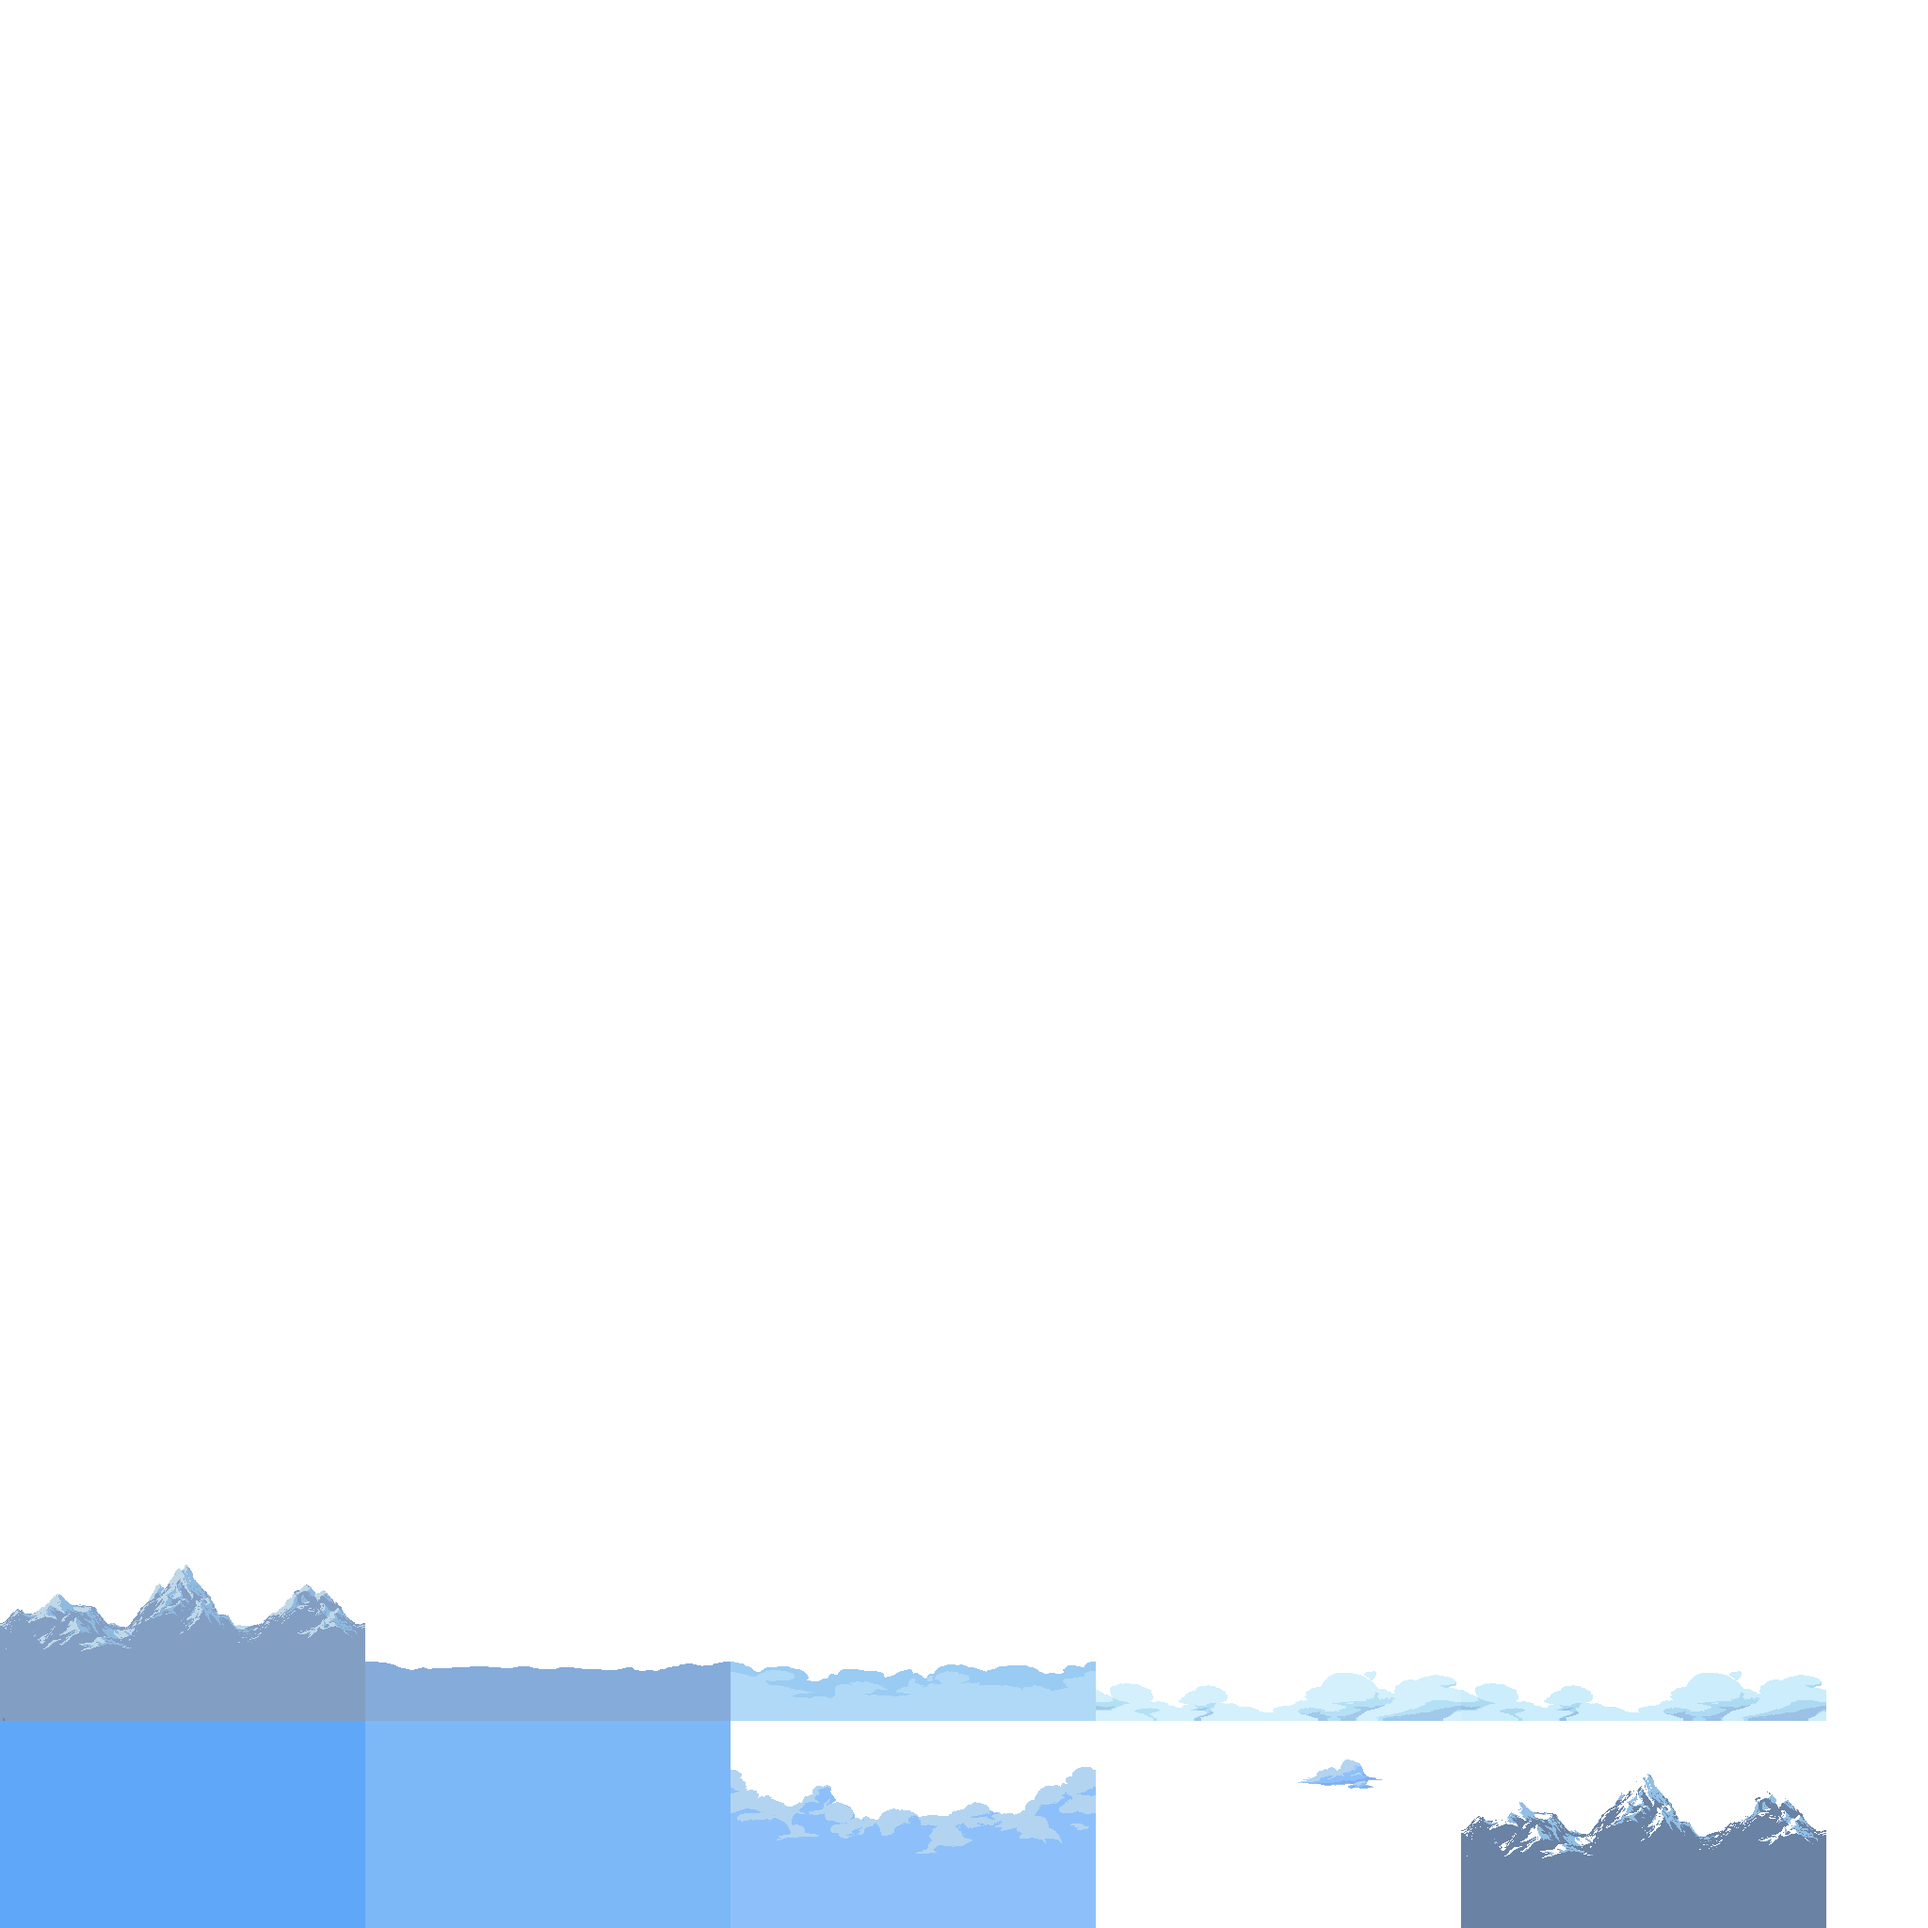
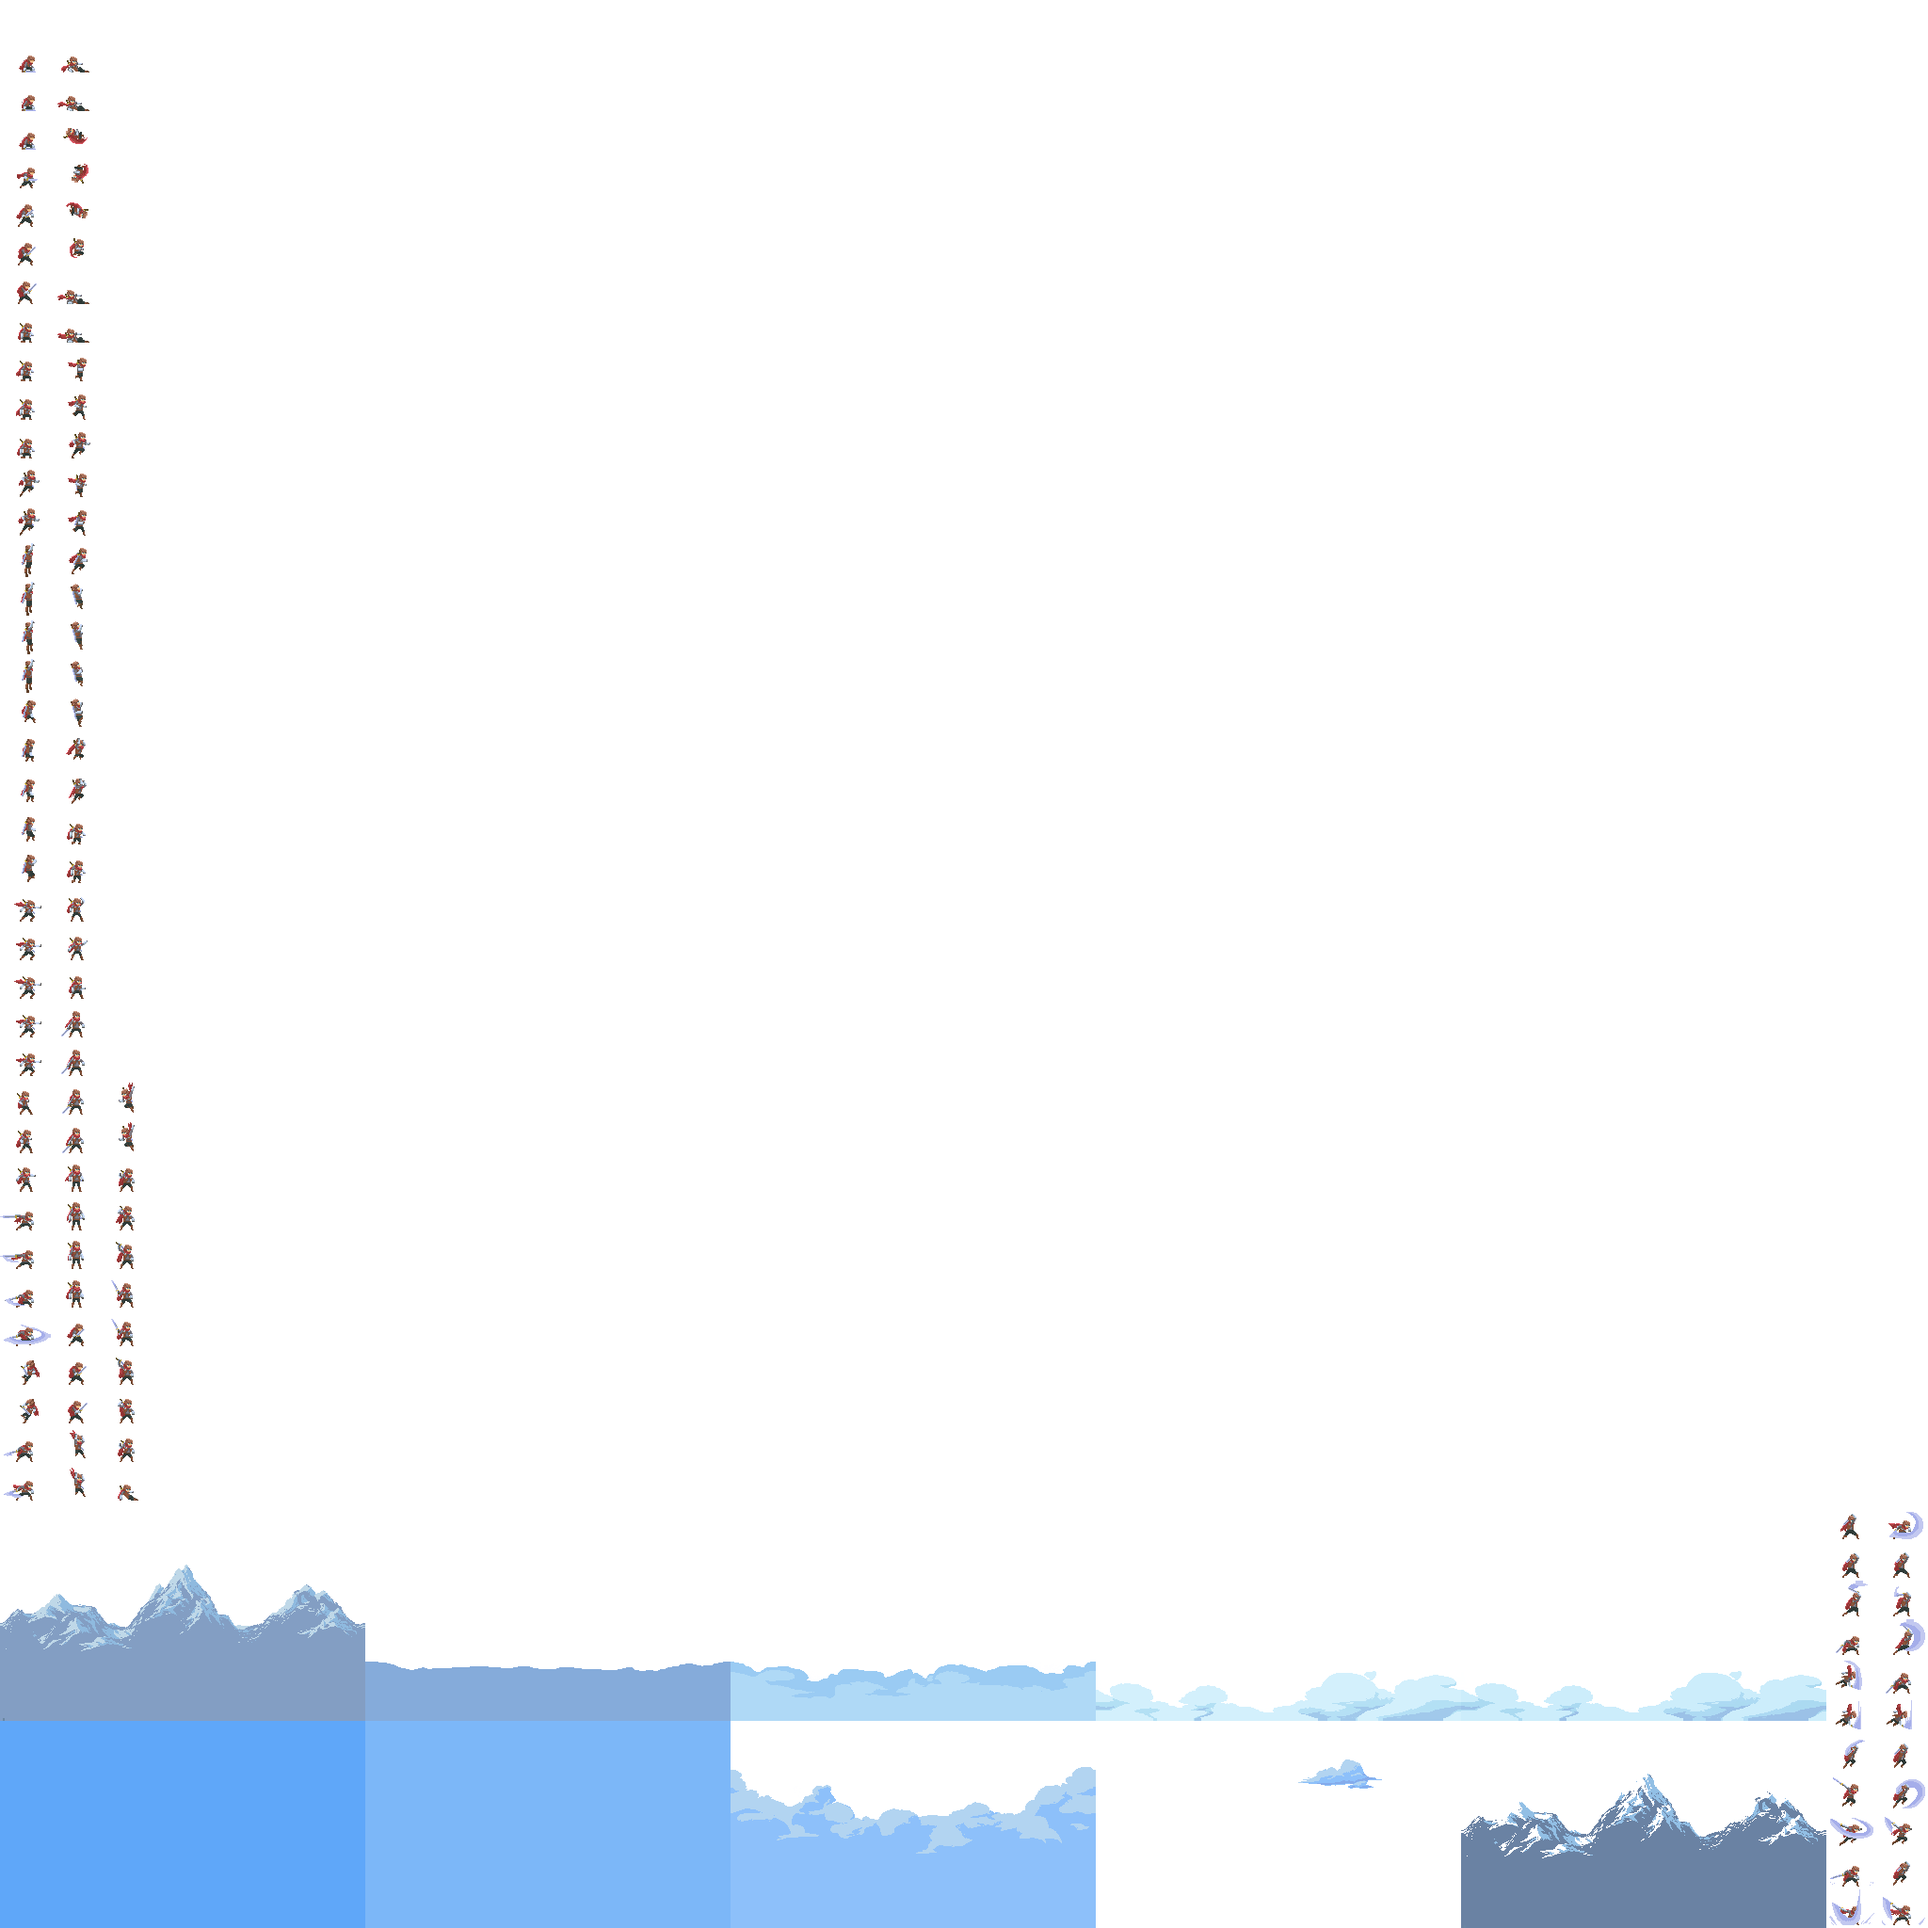
add player sprites

diff --git a/src/atlas.py b/src/atlas.py
@@ -17,6 +17,115 @@ RECTS = [
     778  , 222  , 384  , 216  ,  # 7
     1166 , 222  , 384  , 216  ,  # 8
     1554 , 222  , 384  , 216  ,  # 9
+    1942 , 2    , 50   , 37   ,  # 10
+    1996 , 2    , 50   , 37   ,  # 11
+    1942 , 43   , 50   , 37   ,  # 12
+    1996 , 43   , 50   , 37   ,  # 13
+    1942 , 84   , 50   , 37   ,  # 14
+    1996 , 84   , 50   , 37   ,  # 15
+    1942 , 125  , 50   , 37   ,  # 16
+    1996 , 125  , 50   , 37   ,  # 17
+    1942 , 166  , 50   , 37   ,  # 18
+    1996 , 166  , 50   , 37   ,  # 19
+    1942 , 207  , 50   , 37   ,  # 20
+    1996 , 207  , 50   , 37   ,  # 21
+    1942 , 248  , 50   , 37   ,  # 22
+    1996 , 248  , 50   , 37   ,  # 23
+    1942 , 289  , 50   , 37   ,  # 24
+    1996 , 289  , 50   , 37   ,  # 25
+    1942 , 330  , 50   , 37   ,  # 26
+    1996 , 330  , 50   , 37   ,  # 27
+    1942 , 371  , 50   , 37   ,  # 28
+    1996 , 371  , 50   , 37   ,  # 29
+    1942 , 412  , 50   , 37   ,  # 30
+    1996 , 412  , 50   , 37   ,  # 31
+    2    , 453  , 50   , 37   ,  # 32
+    2    , 494  , 50   , 37   ,  # 33
+    2    , 535  , 50   , 37   ,  # 34
+    2    , 576  , 50   , 37   ,  # 35
+    2    , 617  , 50   , 37   ,  # 36
+    2    , 658  , 50   , 37   ,  # 37
+    2    , 699  , 50   , 37   ,  # 38
+    2    , 740  , 50   , 37   ,  # 39
+    2    , 781  , 50   , 37   ,  # 40
+    2    , 822  , 50   , 37   ,  # 41
+    2    , 863  , 50   , 37   ,  # 42
+    2    , 904  , 50   , 37   ,  # 43
+    2    , 945  , 50   , 37   ,  # 44
+    2    , 986  , 50   , 37   ,  # 45
+    2    , 1027 , 50   , 37   ,  # 46
+    2    , 1068 , 50   , 37   ,  # 47
+    2    , 1109 , 50   , 37   ,  # 48
+    2    , 1150 , 50   , 37   ,  # 49
+    2    , 1191 , 50   , 37   ,  # 50
+    2    , 1232 , 50   , 37   ,  # 51
+    2    , 1273 , 50   , 37   ,  # 52
+    2    , 1314 , 50   , 37   ,  # 53
+    2    , 1355 , 50   , 37   ,  # 54
+    2    , 1396 , 50   , 37   ,  # 55
+    2    , 1437 , 50   , 37   ,  # 56
+    2    , 1478 , 50   , 37   ,  # 57
+    2    , 1519 , 50   , 37   ,  # 58
+    2    , 1560 , 50   , 37   ,  # 59
+    2    , 1601 , 50   , 37   ,  # 60
+    2    , 1642 , 50   , 37   ,  # 61
+    2    , 1683 , 50   , 37   ,  # 62
+    2    , 1724 , 50   , 37   ,  # 63
+    2    , 1765 , 50   , 37   ,  # 64
+    2    , 1806 , 50   , 37   ,  # 65
+    2    , 1847 , 50   , 37   ,  # 66
+    2    , 1888 , 50   , 37   ,  # 67
+    2    , 1929 , 50   , 37   ,  # 68
+    2    , 1970 , 50   , 37   ,  # 69
+    56   , 453  , 50   , 37   ,  # 70
+    56   , 494  , 50   , 37   ,  # 71
+    56   , 535  , 50   , 37   ,  # 72
+    56   , 576  , 50   , 37   ,  # 73
+    56   , 617  , 50   , 37   ,  # 74
+    56   , 658  , 50   , 37   ,  # 75
+    56   , 699  , 50   , 37   ,  # 76
+    56   , 740  , 50   , 37   ,  # 77
+    56   , 781  , 50   , 37   ,  # 78
+    56   , 822  , 50   , 37   ,  # 79
+    56   , 863  , 50   , 37   ,  # 80
+    56   , 904  , 50   , 37   ,  # 81
+    56   , 945  , 50   , 37   ,  # 82
+    56   , 986  , 50   , 37   ,  # 83
+    56   , 1027 , 50   , 37   ,  # 84
+    56   , 1068 , 50   , 37   ,  # 85
+    56   , 1109 , 50   , 37   ,  # 86
+    56   , 1150 , 50   , 37   ,  # 87
+    56   , 1191 , 50   , 37   ,  # 88
+    56   , 1232 , 50   , 37   ,  # 89
+    56   , 1273 , 50   , 37   ,  # 90
+    56   , 1314 , 50   , 37   ,  # 91
+    56   , 1355 , 50   , 37   ,  # 92
+    56   , 1396 , 50   , 37   ,  # 93
+    56   , 1437 , 50   , 37   ,  # 94
+    56   , 1478 , 50   , 37   ,  # 95
+    56   , 1519 , 50   , 37   ,  # 96
+    56   , 1560 , 50   , 37   ,  # 97
+    56   , 1601 , 50   , 37   ,  # 98
+    56   , 1642 , 50   , 37   ,  # 99
+    56   , 1683 , 50   , 37   ,  # 100
+    56   , 1724 , 50   , 37   ,  # 101
+    56   , 1765 , 50   , 37   ,  # 102
+    56   , 1806 , 50   , 37   ,  # 103
+    56   , 1847 , 50   , 37   ,  # 104
+    56   , 1888 , 50   , 37   ,  # 105
+    56   , 1929 , 50   , 37   ,  # 106
+    56   , 1970 , 50   , 37   ,  # 107
+    110  , 453  , 50   , 37   ,  # 108
+    110  , 494  , 50   , 37   ,  # 109
+    110  , 535  , 50   , 37   ,  # 110
+    110  , 576  , 50   , 37   ,  # 111
+    110  , 617  , 50   , 37   ,  # 112
+    110  , 658  , 50   , 37   ,  # 113
+    110  , 699  , 50   , 37   ,  # 114
+    110  , 740  , 50   , 37   ,  # 115
+    110  , 781  , 50   , 37   ,  # 116
+    110  , 822  , 50   , 37   ,  # 117
+    110  , 863  , 50   , 37   ,  # 118
 ]
 """
 Coordinates of the rectangles of each image in the atlas.
@@ -36,3 +145,112 @@ class Sprite(enum.Enum):
     BG_LAYER_5_LOW_CLOUDS = 7
     BG_LAYER_6_LIGHT_CLOUDS = 8
     BG_LAYER_6_LIGHT_CLOUDS_LIGHTENED = 9
+    ADVENTURER_AIR_ATTACK_3_END_00 = 10
+    ADVENTURER_AIR_ATTACK_3_END_01 = 11
+    ADVENTURER_AIR_ATTACK_3_END_02 = 12
+    ADVENTURER_AIR_ATTACK1_00 = 13
+    ADVENTURER_AIR_ATTACK1_01 = 14
+    ADVENTURER_AIR_ATTACK1_02 = 15
+    ADVENTURER_AIR_ATTACK1_03 = 16
+    ADVENTURER_AIR_ATTACK2_00 = 17
+    ADVENTURER_AIR_ATTACK2_01 = 18
+    ADVENTURER_AIR_ATTACK2_02 = 19
+    ADVENTURER_AIR_ATTACK3_LOOP_00 = 20
+    ADVENTURER_AIR_ATTACK3_LOOP_01 = 21
+    ADVENTURER_AIR_ATTACK3_RDY_00 = 22
+    ADVENTURER_ATTACK1_00 = 23
+    ADVENTURER_ATTACK1_01 = 24
+    ADVENTURER_ATTACK1_02 = 25
+    ADVENTURER_ATTACK1_03 = 26
+    ADVENTURER_ATTACK1_04 = 27
+    ADVENTURER_ATTACK2_00 = 28
+    ADVENTURER_ATTACK2_01 = 29
+    ADVENTURER_ATTACK2_02 = 30
+    ADVENTURER_ATTACK2_03 = 31
+    ADVENTURER_ATTACK2_04 = 32
+    ADVENTURER_ATTACK2_05 = 33
+    ADVENTURER_ATTACK3_00 = 34
+    ADVENTURER_ATTACK3_01 = 35
+    ADVENTURER_ATTACK3_02 = 36
+    ADVENTURER_ATTACK3_03 = 37
+    ADVENTURER_ATTACK3_04 = 38
+    ADVENTURER_ATTACK3_05 = 39
+    ADVENTURER_CAST_00 = 40
+    ADVENTURER_CAST_01 = 41
+    ADVENTURER_CAST_02 = 42
+    ADVENTURER_CAST_03 = 43
+    ADVENTURER_CAST_LOOP_00 = 44
+    ADVENTURER_CAST_LOOP_01 = 45
+    ADVENTURER_CAST_LOOP_02 = 46
+    ADVENTURER_CAST_LOOP_03 = 47
+    ADVENTURER_CRNR_CLMB_00 = 48
+    ADVENTURER_CRNR_CLMB_01 = 49
+    ADVENTURER_CRNR_CLMB_02 = 50
+    ADVENTURER_CRNR_CLMB_03 = 51
+    ADVENTURER_CRNR_CLMB_04 = 52
+    ADVENTURER_CRNR_GRB_00 = 53
+    ADVENTURER_CRNR_GRB_01 = 54
+    ADVENTURER_CRNR_GRB_02 = 55
+    ADVENTURER_CRNR_GRB_03 = 56
+    ADVENTURER_CRNR_JMP_00 = 57
+    ADVENTURER_CRNR_JMP_01 = 58
+    ADVENTURER_CROUCH_00 = 59
+    ADVENTURER_CROUCH_01 = 60
+    ADVENTURER_CROUCH_02 = 61
+    ADVENTURER_CROUCH_03 = 62
+    ADVENTURER_DIE_00 = 63
+    ADVENTURER_DIE_01 = 64
+    ADVENTURER_DIE_02 = 65
+    ADVENTURER_DIE_03 = 66
+    ADVENTURER_DIE_04 = 67
+    ADVENTURER_DIE_05 = 68
+    ADVENTURER_DIE_06 = 69
+    ADVENTURER_FALL_00 = 70
+    ADVENTURER_FALL_01 = 71
+    ADVENTURER_HURT_00 = 72
+    ADVENTURER_HURT_01 = 73
+    ADVENTURER_HURT_02 = 74
+    ADVENTURER_IDLE_00 = 75
+    ADVENTURER_IDLE_01 = 76
+    ADVENTURER_IDLE_02 = 77
+    ADVENTURER_IDLE_03 = 78
+    ADVENTURER_IDLE_2_00 = 79
+    ADVENTURER_IDLE_2_01 = 80
+    ADVENTURER_IDLE_2_02 = 81
+    ADVENTURER_IDLE_2_03 = 82
+    ADVENTURER_ITEMS_00 = 83
+    ADVENTURER_ITEMS_01 = 84
+    ADVENTURER_ITEMS_02 = 85
+    ADVENTURER_JUMP_00 = 86
+    ADVENTURER_JUMP_01 = 87
+    ADVENTURER_JUMP_02 = 88
+    ADVENTURER_JUMP_03 = 89
+    ADVENTURER_LADDER_CLIMB_00 = 90
+    ADVENTURER_LADDER_CLIMB_01 = 91
+    ADVENTURER_LADDER_CLIMB_02 = 92
+    ADVENTURER_LADDER_CLIMB_03 = 93
+    ADVENTURER_RUN_00 = 94
+    ADVENTURER_RUN_01 = 95
+    ADVENTURER_RUN_02 = 96
+    ADVENTURER_RUN_03 = 97
+    ADVENTURER_RUN_04 = 98
+    ADVENTURER_RUN_05 = 99
+    ADVENTURER_SLIDE_00 = 100
+    ADVENTURER_SLIDE_01 = 101
+    ADVENTURER_SMRSLT_00 = 102
+    ADVENTURER_SMRSLT_01 = 103
+    ADVENTURER_SMRSLT_02 = 104
+    ADVENTURER_SMRSLT_03 = 105
+    ADVENTURER_STAND_00 = 106
+    ADVENTURER_STAND_01 = 107
+    ADVENTURER_STAND_02 = 108
+    ADVENTURER_SWRD_DRW_00 = 109
+    ADVENTURER_SWRD_DRW_01 = 110
+    ADVENTURER_SWRD_DRW_02 = 111
+    ADVENTURER_SWRD_DRW_03 = 112
+    ADVENTURER_SWRD_SHTE_00 = 113
+    ADVENTURER_SWRD_SHTE_01 = 114
+    ADVENTURER_SWRD_SHTE_02 = 115
+    ADVENTURER_SWRD_SHTE_03 = 116
+    ADVENTURER_WALL_SLIDE_00 = 117
+    ADVENTURER_WALL_SLIDE_01 = 118

diff --git a/assets/gen_atlas.py b/assets/gen_atlas.py
@@ -23,7 +23,7 @@ RECTS = [
 ]
 """
 Coordinates of the rectangles of each image in the atlas.
-The coordinates increase left and up, as in a standard R² 
+The coordinates increase left and up, as in a standard R²
 coordinate system. Indices corresponds to 4 time the sprite ids.
 """
 
@@ -43,7 +43,7 @@ class Sprite(enum.Enum):
             y=rect.y + extrude,
             w=rect.width - extrude * 2,
             h=rect.height - extrude * 2,
-            i=i
+            i=i,
         )
         for i, rect in enumerate(sorted(bin, key=lambda rect: rect.rid))
     ]
@@ -67,7 +67,7 @@ class Sprite(enum.Enum):
 
 
 def python_enum_name(name: str):
-    name = name.rpartition("/")[2].partition(".")[0].upper()
+    name = name.rpartition("/")[2].partition(".")[0].replace("-", "_").upper()
 
     return name
 
@@ -123,9 +123,10 @@ def combine(bin: rectpack.MaxRectsBssf, images: List[Image.Image]) -> Image.Imag
 @click.argument("files", nargs=-1)
 @click.option("--py-out", default="atlas.py")
 @click.option("--img-out", default="atlas.png")
-@click.option("--atlas-size", default=(2048, 2048))
+@click.option("--atlas-size", default=(2 ** 11,) * 2)
 def main(files, extrude, img_out, py_out, atlas_size):
     files = sorted(files)
+    print(*files, sep="\n")
     images = [Image.open(file) for file in files]
 
     if extrude:
@@ -139,6 +140,8 @@ def main(files, extrude, img_out, py_out, atlas_size):
 
     # Pack all the images in the atlas
     packer.pack()
+    missing = len(files) - len(packer[0])
+    assert missing == 0, f"Unable to pack everything. {missing} images missing"
     atlas = combine(packer[0], images)
 
     # Output
